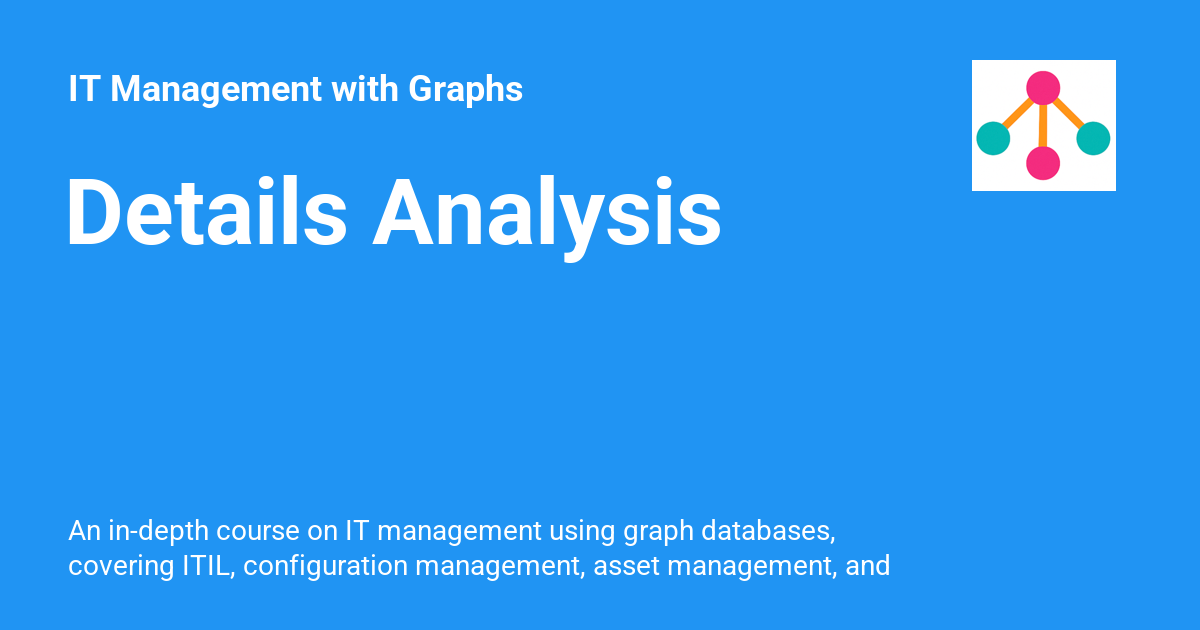
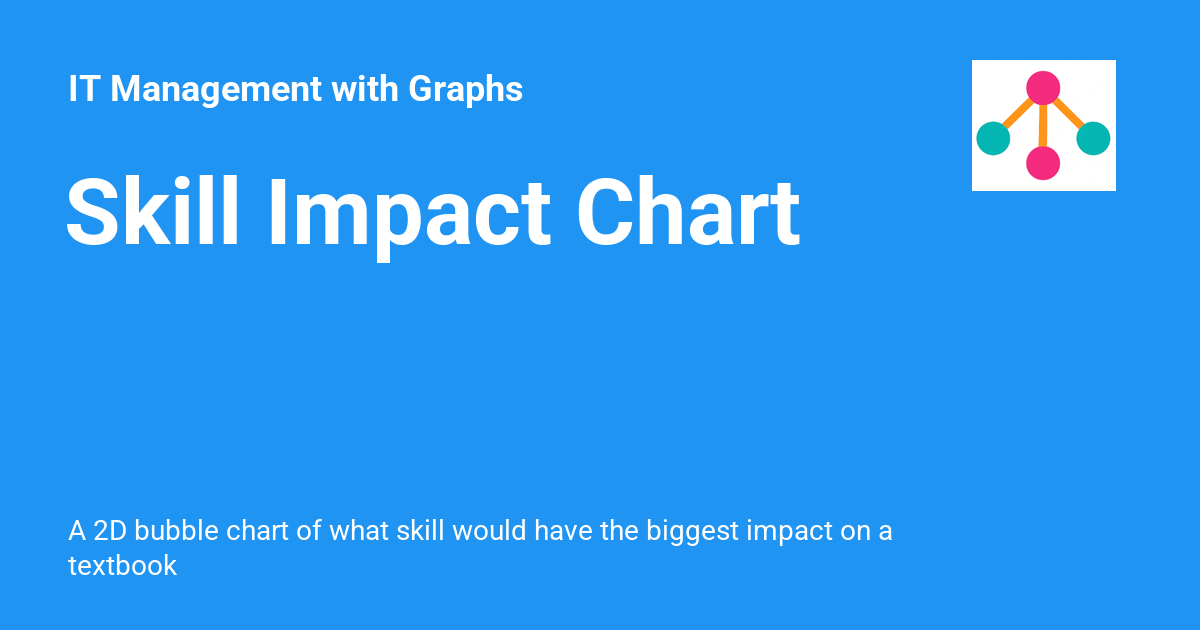
Deployed c4231c9 with MkDocs version: 1.6.1

Changed region(s): [[0.0617, 0.8143, 0.74, 0.9349], [0.0308, 0.2714, 0.6783, 0.4222]]

diff --git a/details-analysis/index.html b/details-analysis/index.html
@@ -6,7 +6,7 @@
       <meta charset="utf-8">
       <meta name="viewport" content="width=device-width,initial-scale=1">
       
-        <meta name="description" content="An in-depth course on IT management using graph databases, covering ITIL, configuration management, asset management, and advanced graph techniques.">
+        <meta name="description" content="A 2D bubble chart of what skill would have the biggest impact on a textbook">
       
       
         <meta name="author" content="Dan McCreary">
@@ -26,7 +26,7 @@
     
     
       
-        <title>Details Analysis - IT Management with Graphs</title>
+        <title>Skill Impact Chart - IT Management with Graphs</title>
       
     
     
@@ -73,11 +73,11 @@
       
         <meta  property="og:type"  content="website" >
       
-        <meta  property="og:title"  content="Details Analysis - IT Management with Graphs" >
+        <meta  property="og:title"  content="Skill Impact Chart - IT Management with Graphs" >
       
-        <meta  property="og:description"  content="An in-depth course on IT management using graph databases, covering ITIL, configuration management, asset management, and advanced graph techniques." >
+        <meta  property="og:description"  content="A 2D bubble chart of what skill would have the biggest impact on a textbook" >
       
-        <meta  property="og:image"  content="https://dmccreary.github.io/it-management-graph/assets/images/social/details-analysis.png" >
+        <meta property="og:image" content="https://dmccreary.github.io/it-management-graph/sims/skill-impact-chart/skill-impact-chart.png">
       
         <meta  property="og:image:type"  content="image/png" >
       
@@ -89,11 +89,11 @@
       
         <meta  name="twitter:card"  content="summary_large_image" >
       
-        <meta  name="twitter:title"  content="Details Analysis - IT Management with Graphs" >
+        <meta  name="twitter:title"  content="Skill Impact Chart - IT Management with Graphs" >
       
-        <meta  name="twitter:description"  content="An in-depth course on IT management using graph databases, covering ITIL, configuration management, asset management, and advanced graph techniques." >
+        <meta  name="twitter:description"  content="A 2D bubble chart of what skill would have the biggest impact on a textbook" >
       
-        <meta  name="twitter:image"  content="https://dmccreary.github.io/it-management-graph/assets/images/social/details-analysis.png" >
+        <meta name="twitter:image" content="https://dmccreary.github.io/it-management-graph/sims/skill-impact-chart/skill-impact-chart.png">
       
     
     
@@ -149,7 +149,7 @@
         <div class="md-header__topic" data-md-component="header-topic">
           <span class="md-ellipsis">
             
-              Details Analysis
+              Skill Impact Chart
             
           </span>
         </div>
